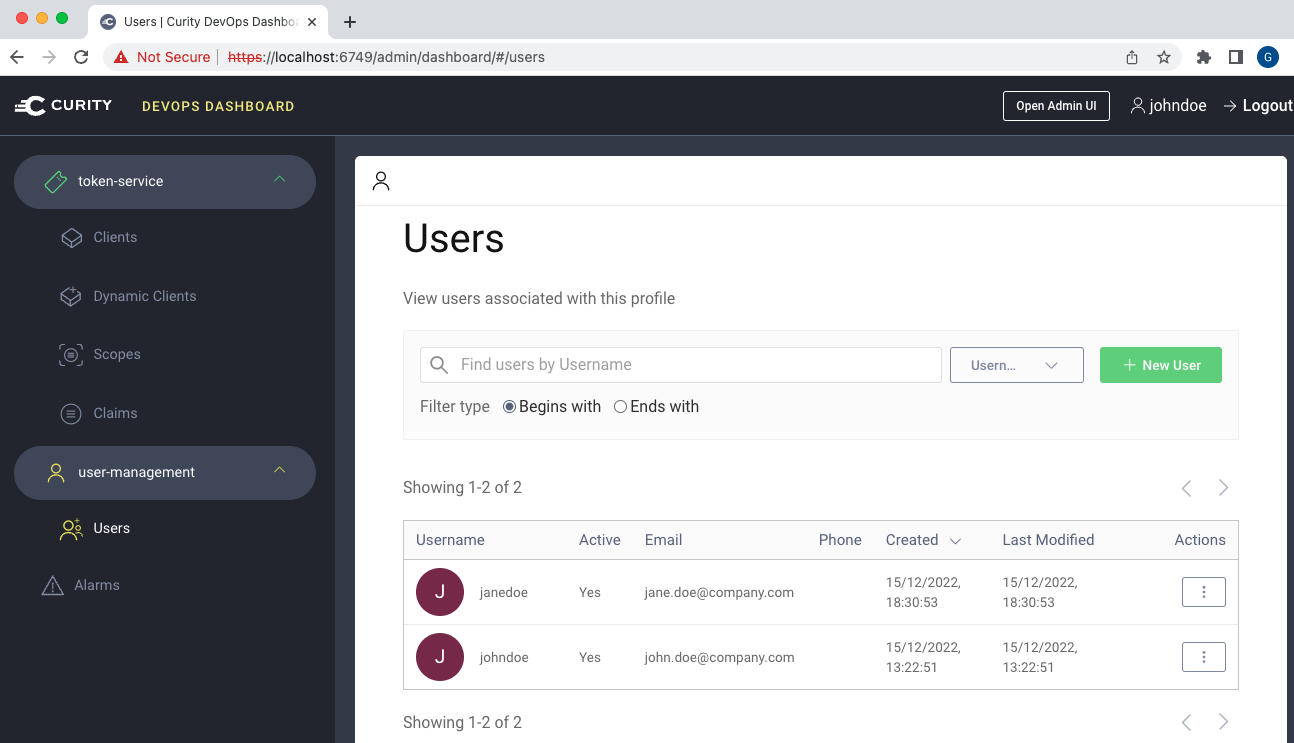
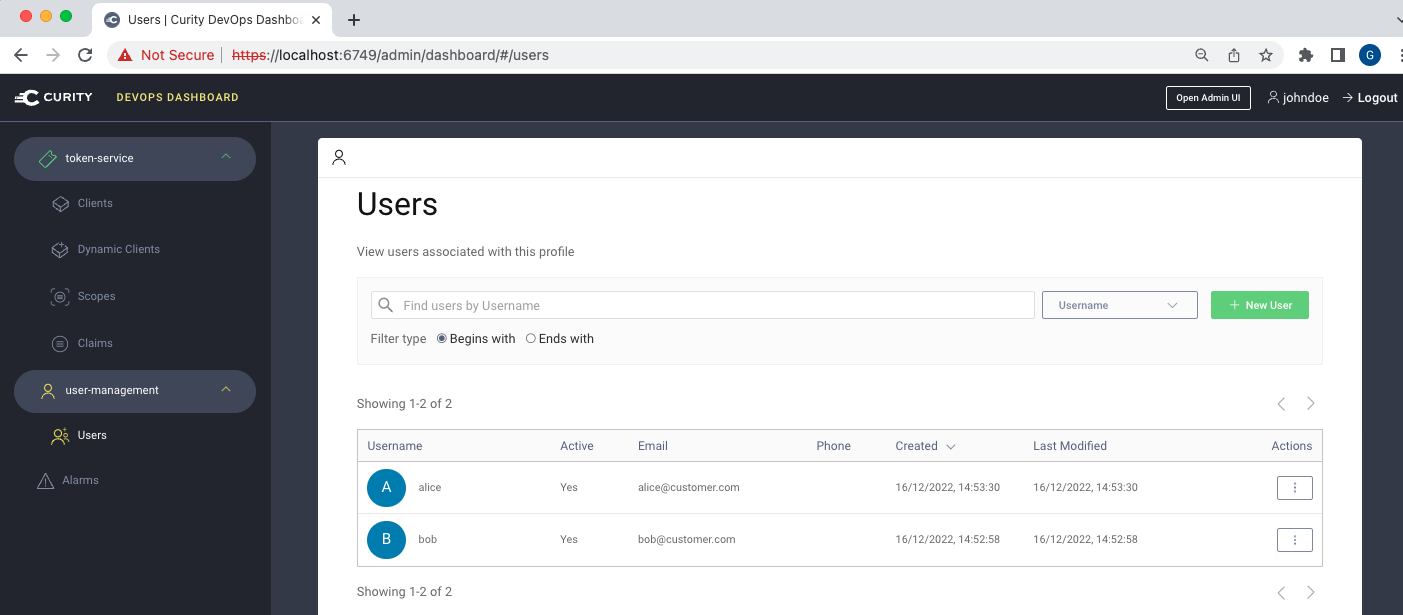
Updates

diff --git a/README.md b/README.md
@@ -15,7 +15,7 @@ Also ensure that docker and docker compose are installed on the local computer.
 ## Deploy the System
 
 Clone this repository, then copy the license.json file into the root folder.\
-Run the script to deploy the Curity Identity Server and a SQL database, in a small docker compose network:
+Run the script to deploy the Curity Identity Server and a SQL database containing customer users:
 
 ```bash
 ./deploy.sh
@@ -30,30 +30,21 @@ The administration permissions for each team is configured under `System / Admin
 
 ## Use the DevOps Dashboard as a High Privilege User
 
-Login at `https://localhost:6749/admin/dashboard` with the credentials `johndoe / Password1`.\
-This account represents a high privilege user from a DevOps team:
+Login at `https://localhost:6749/admin/dashboard` with the credentials `johndoe`.\
+This account represents a high privilege user from a DevOps team who can edit customer users:
 
 ![DevOps User](doc/devops-user-access.png)
 
 ## Use the DevOps Dashboard as a Low Privilege User
 
-Login at `https://localhost:6749/admin/dashboard` with the credentials `janedoe / Password1`.\
+Login at `https://localhost:6749/admin/dashboard` with the credentials `janedoe`.\
 This account represents a low privilege user from a devlopment team, who can only edit OAuth clients:
 
 ![Developer User](doc/developer-user-access.png)
 
 ## Website Documentation
 
-See the [DevOps Dashboard](https://curity.io/resources/learn/devops-dashboard) tutorial for a step by step walkthrough.\
-This starts with an empty docker installation, with only the built-in `admin` user account.\
-It then shows how to migrate administration to employee user accounts stored in a data source.
-
-## Technical Details
-
-For further information on technical aspects of the example setup, and to troubleshoot, see these pages:
-
-- [OAuth Flow](doc/oauth-flow.md)
-- [Data Access](doc/data-access.md)
+See the [DevOps Dashboard](https://curity.io/resources/learn/devops-dashboard) tutorial for a step by step walkthrough.
 
 ## More Information
 
